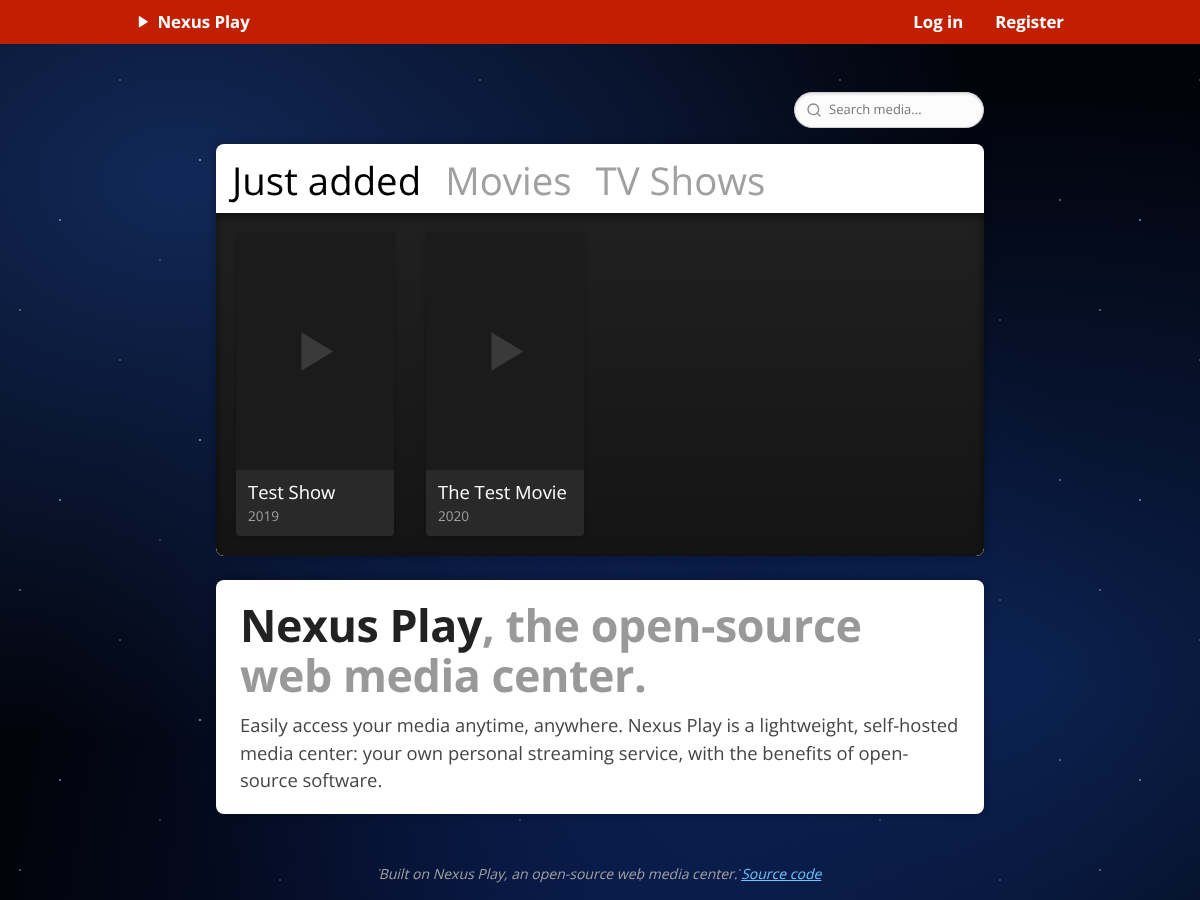
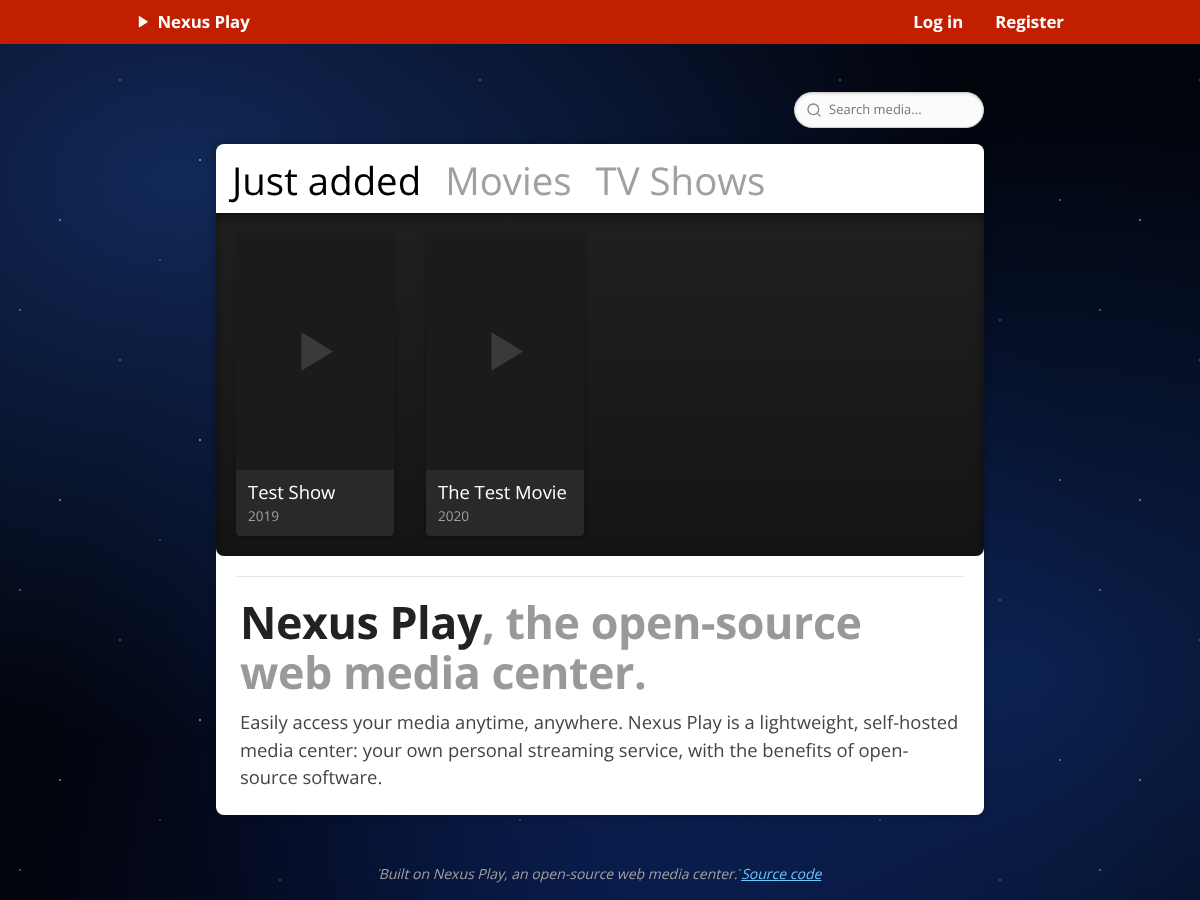
UI: the search drawer and the page under it form one container
With search results open there was a gap between the drawer and the page
under it. As in the original, the drawer now runs straight into the
(dimmed) page: no gap, and no rounded corners where they meet.

The home page's "Nexus Play, the open-source web media center" text is
back in the same white box as the library, under a thin rule, as in the
original, instead of in a separate panel.

Changed region(s): [[0.185, 0.6844, 0.8017, 0.8711], [0.1542, 0.5911, 0.8325, 0.6533]]

diff --git a/internal/web/static/css/app.css b/internal/web/static/css/app.css
@@ -196,9 +196,12 @@ button { font: inherit; }
   grid-template-rows: 0fr;
   transition: grid-template-rows .45s ease, margin-bottom .45s ease;
 }
-.search-drawer.open { grid-template-rows: 1fr; margin-bottom: 24px; }
+.search-drawer.open { grid-template-rows: 1fr; }
 .search-drawer-inner { min-height: 0; overflow: hidden; }
-.search-panel { box-shadow: 0 6px 24px rgba(0, 0, 0, .6); }
+/* While open, the drawer and the page under it read as one container, as
+   in the original: no gap, and no rounded corners where they meet. */
+.search-panel, .search-panel .tile-strip { border-bottom-left-radius: 0; border-bottom-right-radius: 0; }
+.search-drawer.open + .page-cover > :first-child { border-top-left-radius: 0; border-top-right-radius: 0; }
 .page-cover { transition: filter .25s ease; }
 .page-cover.dimmed { filter: brightness(.4); }
 
@@ -255,7 +258,8 @@ button { font: inherit; }
 .empty { padding: 32px 24px; }
 .empty h2 { margin-top: 0; }
 
-.featurette { padding: 20px 24px; }
+.featurette { margin: 0 20px; padding: 20px 4px 24px; border-top: 1px solid #e5e5e5; }
+#library + .featurette { margin-top: 20px; }
 .featurette h2 { font-size: clamp(1.8rem, 5vw, 2.8rem); line-height: 1.1; margin: 0 0 12px; letter-spacing: -.01em; }
 .featurette .muted { color: #999; font-weight: 700; }
 .lead { font-size: 1.15rem; margin: 0; color: #444; }

diff --git a/internal/web/library_templ.go b/internal/web/library_templ.go
@@ -48,7 +48,7 @@ func homePage(p Page, recent []store.Tile, cats []store.Category) templ.Componen
 				}()
 			}
 			ctx = templ.InitializeContext(ctx)
-			templ_7745c5c3_Err = templruntime.WriteString(templ_7745c5c3_Buffer, 1, "<section class=\"panel library-panel\" id=\"library\">")
+			templ_7745c5c3_Err = templruntime.WriteString(templ_7745c5c3_Buffer, 1, "<section class=\"panel library-panel\"><div id=\"library\">")
 			if templ_7745c5c3_Err != nil {
 				return templ_7745c5c3_Err
 			}
@@ -56,7 +56,7 @@ func homePage(p Page, recent []store.Tile, cats []store.Category) templ.Componen
 			if templ_7745c5c3_Err != nil {
 				return templ_7745c5c3_Err
 			}
-			templ_7745c5c3_Err = templruntime.WriteString(templ_7745c5c3_Buffer, 2, "</section><section class=\"panel featurette\"><h2><strong>Nexus Play</strong><span class=\"muted\">, the open-source web media center.</span></h2><p class=\"lead\">Easily access your media anytime, anywhere. Nexus Play is a lightweight, self-hosted media center: your own personal streaming service, with the benefits of open-source software.</p></section>")
+			templ_7745c5c3_Err = templruntime.WriteString(templ_7745c5c3_Buffer, 2, "</div><div class=\"featurette\"><h2><strong>Nexus Play</strong><span class=\"muted\">, the open-source web media center.</span></h2><p class=\"lead\">Easily access your media anytime, anywhere. Nexus Play is a lightweight, self-hosted media center: your own personal streaming service, with the benefits of open-source software.</p></div></section>")
 			if templ_7745c5c3_Err != nil {
 				return templ_7745c5c3_Err
 			}
@@ -124,7 +124,7 @@ func libraryView(p Page, recent []store.Tile, cats []store.Category) templ.Compo
 				var templ_7745c5c3_Var4 string
 				templ_7745c5c3_Var4, templ_7745c5c3_Err = templ.ResolveAttributeValue(fmt.Sprintf("tab-%d", i))
 				if templ_7745c5c3_Err != nil {
-					return templ.Error{Err: templ_7745c5c3_Err, FileName: `internal/web/library.templ`, Line: 40, Col: 107}
+					return templ.Error{Err: templ_7745c5c3_Err, FileName: `internal/web/library.templ`, Line: 42, Col: 107}
 				}
 				_, templ_7745c5c3_Err = templ_7745c5c3_Buffer.WriteString(templ_7745c5c3_Var4)
 				if templ_7745c5c3_Err != nil {
@@ -137,7 +137,7 @@ func libraryView(p Page, recent []store.Tile, cats []store.Category) templ.Compo
 				var templ_7745c5c3_Var5 string
 				templ_7745c5c3_Var5, templ_7745c5c3_Err = templ.JoinStringErrs(c.Name)
 				if templ_7745c5c3_Err != nil {
-					return templ.Error{Err: templ_7745c5c3_Err, FileName: `internal/web/library.templ`, Line: 40, Col: 118}
+					return templ.Error{Err: templ_7745c5c3_Err, FileName: `internal/web/library.templ`, Line: 42, Col: 118}
 				}
 				_, templ_7745c5c3_Err = templ_7745c5c3_Buffer.WriteString(templ.EscapeString(templ_7745c5c3_Var5))
 				if templ_7745c5c3_Err != nil {
@@ -168,7 +168,7 @@ func libraryView(p Page, recent []store.Tile, cats []store.Category) templ.Compo
 				var templ_7745c5c3_Var6 string
 				templ_7745c5c3_Var6, templ_7745c5c3_Err = templ.ResolveAttributeValue(fmt.Sprintf("tab-%d", i))
 				if templ_7745c5c3_Err != nil {
-					return templ.Error{Err: templ_7745c5c3_Err, FileName: `internal/web/library.templ`, Line: 48, Col: 57}
+					return templ.Error{Err: templ_7745c5c3_Err, FileName: `internal/web/library.templ`, Line: 50, Col: 57}
 				}
 				_, templ_7745c5c3_Err = templ_7745c5c3_Buffer.WriteString(templ_7745c5c3_Var6)
 				if templ_7745c5c3_Err != nil {
@@ -233,7 +233,7 @@ func searchResults(cats []store.Category) templ.Component {
 				var templ_7745c5c3_Var8 string
 				templ_7745c5c3_Var8, templ_7745c5c3_Err = templ.ResolveAttributeValue(strconv.FormatBool(i == 0))
 				if templ_7745c5c3_Err != nil {
-					return templ.Error{Err: templ_7745c5c3_Err, FileName: `internal/web/library.templ`, Line: 67, Col: 93}
+					return templ.Error{Err: templ_7745c5c3_Err, FileName: `internal/web/library.templ`, Line: 69, Col: 93}
 				}
 				_, templ_7745c5c3_Err = templ_7745c5c3_Buffer.WriteString(templ_7745c5c3_Var8)
 				if templ_7745c5c3_Err != nil {
@@ -246,7 +246,7 @@ func searchResults(cats []store.Category) templ.Component {
 				var templ_7745c5c3_Var9 string
 				templ_7745c5c3_Var9, templ_7745c5c3_Err = templ.ResolveAttributeValue(fmt.Sprintf("search-tab-%d", i))
 				if templ_7745c5c3_Err != nil {
-					return templ.Error{Err: templ_7745c5c3_Err, FileName: `internal/web/library.templ`, Line: 67, Col: 138}
+					return templ.Error{Err: templ_7745c5c3_Err, FileName: `internal/web/library.templ`, Line: 69, Col: 138}
 				}
 				_, templ_7745c5c3_Err = templ_7745c5c3_Buffer.WriteString(templ_7745c5c3_Var9)
 				if templ_7745c5c3_Err != nil {
@@ -259,7 +259,7 @@ func searchResults(cats []store.Category) templ.Component {
 				var templ_7745c5c3_Var10 string
 				templ_7745c5c3_Var10, templ_7745c5c3_Err = templ.JoinStringErrs(c.Name)
 				if templ_7745c5c3_Err != nil {
-					return templ.Error{Err: templ_7745c5c3_Err, FileName: `internal/web/library.templ`, Line: 67, Col: 149}
+					return templ.Error{Err: templ_7745c5c3_Err, FileName: `internal/web/library.templ`, Line: 69, Col: 149}
 				}
 				_, templ_7745c5c3_Err = templ_7745c5c3_Buffer.WriteString(templ.EscapeString(templ_7745c5c3_Var10))
 				if templ_7745c5c3_Err != nil {
@@ -282,7 +282,7 @@ func searchResults(cats []store.Category) templ.Component {
 				var templ_7745c5c3_Var11 string
 				templ_7745c5c3_Var11, templ_7745c5c3_Err = templ.ResolveAttributeValue(fmt.Sprintf("search-tab-%d", i))
 				if templ_7745c5c3_Err != nil {
-					return templ.Error{Err: templ_7745c5c3_Err, FileName: `internal/web/library.templ`, Line: 72, Col: 65}
+					return templ.Error{Err: templ_7745c5c3_Err, FileName: `internal/web/library.templ`, Line: 74, Col: 65}
 				}
 				_, templ_7745c5c3_Err = templ_7745c5c3_Buffer.WriteString(templ_7745c5c3_Var11)
 				if templ_7745c5c3_Err != nil {
@@ -358,7 +358,7 @@ func tileGrid(tiles []store.Tile) templ.Component {
 				var templ_7745c5c3_Var13 templ.SafeURL
 				templ_7745c5c3_Var13, templ_7745c5c3_Err = templ.JoinURLErrs(templ.SafeURL(collectionURL(t.ID)))
 				if templ_7745c5c3_Err != nil {
-					return templ.Error{Err: templ_7745c5c3_Err, FileName: `internal/web/library.templ`, Line: 87, Col: 62}
+					return templ.Error{Err: templ_7745c5c3_Err, FileName: `internal/web/library.templ`, Line: 89, Col: 62}
 				}
 				_, templ_7745c5c3_Err = templ_7745c5c3_Buffer.WriteString(templ.EscapeString(templ_7745c5c3_Var13))
 				if templ_7745c5c3_Err != nil {
@@ -371,7 +371,7 @@ func tileGrid(tiles []store.Tile) templ.Component {
 				var templ_7745c5c3_Var14 string
 				templ_7745c5c3_Var14, templ_7745c5c3_Err = templ.ResolveAttributeValue(collectionURL(t.ID))
 				if templ_7745c5c3_Err != nil {
-					return templ.Error{Err: templ_7745c5c3_Err, FileName: `internal/web/library.templ`, Line: 87, Col: 93}
+					return templ.Error{Err: templ_7745c5c3_Err, FileName: `internal/web/library.templ`, Line: 89, Col: 93}
 				}
 				_, templ_7745c5c3_Err = templ_7745c5c3_Buffer.WriteString(templ_7745c5c3_Var14)
 				if templ_7745c5c3_Err != nil {
@@ -397,7 +397,7 @@ func tileGrid(tiles []store.Tile) templ.Component {
 				var templ_7745c5c3_Var15 templ.SafeURL
 				templ_7745c5c3_Var15, templ_7745c5c3_Err = templ.JoinURLErrs(watchURL(t.ID))
 				if templ_7745c5c3_Err != nil {
-					return templ.Error{Err: templ_7745c5c3_Err, FileName: `internal/web/library.templ`, Line: 91, Col: 42}
+					return templ.Error{Err: templ_7745c5c3_Err, FileName: `internal/web/library.templ`, Line: 93, Col: 42}
 				}
 				_, templ_7745c5c3_Err = templ_7745c5c3_Buffer.WriteString(templ.EscapeString(templ_7745c5c3_Var15))
 				if templ_7745c5c3_Err != nil {
@@ -457,7 +457,7 @@ func tileBody(t store.Tile) templ.Component {
 		var templ_7745c5c3_Var17 string
 		templ_7745c5c3_Var17, templ_7745c5c3_Err = templ.ResolveAttributeValue(posterURL(t.Poster))
 		if templ_7745c5c3_Err != nil {
-			return templ.Error{Err: templ_7745c5c3_Err, FileName: `internal/web/library.templ`, Line: 101, Col: 31}
+			return templ.Error{Err: templ_7745c5c3_Err, FileName: `internal/web/library.templ`, Line: 103, Col: 31}
 		}
 		_, templ_7745c5c3_Err = templ_7745c5c3_Buffer.WriteString(templ_7745c5c3_Var17)
 		if templ_7745c5c3_Err != nil {
@@ -470,7 +470,7 @@ func tileBody(t store.Tile) templ.Component {
 		var templ_7745c5c3_Var18 string
 		templ_7745c5c3_Var18, templ_7745c5c3_Err = templ.ResolveAttributeValue(t.Title)
 		if templ_7745c5c3_Err != nil {
-			return templ.Error{Err: templ_7745c5c3_Err, FileName: `internal/web/library.templ`, Line: 102, Col: 41}
+			return templ.Error{Err: templ_7745c5c3_Err, FileName: `internal/web/library.templ`, Line: 104, Col: 41}
 		}
 		_, templ_7745c5c3_Err = templ_7745c5c3_Buffer.WriteString(templ_7745c5c3_Var18)
 		if templ_7745c5c3_Err != nil {
@@ -483,7 +483,7 @@ func tileBody(t store.Tile) templ.Component {
 		var templ_7745c5c3_Var19 string
 		templ_7745c5c3_Var19, templ_7745c5c3_Err = templ.JoinStringErrs(t.Title)
 		if templ_7745c5c3_Err != nil {
-			return templ.Error{Err: templ_7745c5c3_Err, FileName: `internal/web/library.templ`, Line: 102, Col: 53}
+			return templ.Error{Err: templ_7745c5c3_Err, FileName: `internal/web/library.templ`, Line: 104, Col: 53}
 		}
 		_, templ_7745c5c3_Err = templ_7745c5c3_Buffer.WriteString(templ.EscapeString(templ_7745c5c3_Var19))
 		if templ_7745c5c3_Err != nil {
@@ -510,7 +510,7 @@ func tileBody(t store.Tile) templ.Component {
 		var templ_7745c5c3_Var20 string
 		templ_7745c5c3_Var20, templ_7745c5c3_Err = templ.JoinStringErrs(t.Year)
 		if templ_7745c5c3_Err != nil {
-			return templ.Error{Err: templ_7745c5c3_Err, FileName: `internal/web/library.templ`, Line: 109, Col: 10}
+			return templ.Error{Err: templ_7745c5c3_Err, FileName: `internal/web/library.templ`, Line: 111, Col: 10}
 		}
 		_, templ_7745c5c3_Err = templ_7745c5c3_Buffer.WriteString(templ.EscapeString(templ_7745c5c3_Var20))
 		if templ_7745c5c3_Err != nil {
@@ -552,7 +552,7 @@ func collectionDialog(v Viewer, c store.Collection, seasons []Season, subscribed
 		var templ_7745c5c3_Var22 string
 		templ_7745c5c3_Var22, templ_7745c5c3_Err = templ.ResolveAttributeValue(posterURL(c.Poster))
 		if templ_7745c5c3_Err != nil {
-			return templ.Error{Err: templ_7745c5c3_Err, FileName: `internal/web/library.templ`, Line: 117, Col: 34}
+			return templ.Error{Err: templ_7745c5c3_Err, FileName: `internal/web/library.templ`, Line: 119, Col: 34}
 		}
 		_, templ_7745c5c3_Err = templ_7745c5c3_Buffer.WriteString(templ_7745c5c3_Var22)
 		if templ_7745c5c3_Err != nil {
@@ -575,7 +575,7 @@ func collectionDialog(v Viewer, c store.Collection, seasons []Season, subscribed
 		var templ_7745c5c3_Var23 string
 		templ_7745c5c3_Var23, templ_7745c5c3_Err = templ.JoinStringErrs(c.Name)
 		if templ_7745c5c3_Err != nil {
-			return templ.Error{Err: templ_7745c5c3_Err, FileName: `internal/web/library.templ`, Line: 123, Col: 33}
+			return templ.Error{Err: templ_7745c5c3_Err, FileName: `internal/web/library.templ`, Line: 125, Col: 33}
 		}
 		_, templ_7745c5c3_Err = templ_7745c5c3_Buffer.WriteString(templ.EscapeString(templ_7745c5c3_Var23))
 		if templ_7745c5c3_Err != nil {
@@ -588,7 +588,7 @@ func collectionDialog(v Viewer, c store.Collection, seasons []Season, subscribed
 		var templ_7745c5c3_Var24 string
 		templ_7745c5c3_Var24, templ_7745c5c3_Err = templ.JoinStringErrs(seasonSummary(c, seasons))
 		if templ_7745c5c3_Err != nil {
-			return templ.Error{Err: templ_7745c5c3_Err, FileName: `internal/web/library.templ`, Line: 124, Col: 57}
+			return templ.Error{Err: templ_7745c5c3_Err, FileName: `internal/web/library.templ`, Line: 126, Col: 57}
 		}
 		_, templ_7745c5c3_Err = templ_7745c5c3_Buffer.WriteString(templ.EscapeString(templ_7745c5c3_Var24))
 		if templ_7745c5c3_Err != nil {
@@ -611,7 +611,7 @@ func collectionDialog(v Viewer, c store.Collection, seasons []Season, subscribed
 				var templ_7745c5c3_Var25 string
 				templ_7745c5c3_Var25, templ_7745c5c3_Err = templ.ResolveAttributeValue(strconv.FormatBool(i == 0))
 				if templ_7745c5c3_Err != nil {
-					return templ.Error{Err: templ_7745c5c3_Err, FileName: `internal/web/library.templ`, Line: 132, Col: 50}
+					return templ.Error{Err: templ_7745c5c3_Err, FileName: `internal/web/library.templ`, Line: 134, Col: 50}
 				}
 				_, templ_7745c5c3_Err = templ_7745c5c3_Buffer.WriteString(templ_7745c5c3_Var25)
 				if templ_7745c5c3_Err != nil {
@@ -624,7 +624,7 @@ func collectionDialog(v Viewer, c store.Collection, seasons []Season, subscribed
 				var templ_7745c5c3_Var26 string
 				templ_7745c5c3_Var26, templ_7745c5c3_Err = templ.ResolveAttributeValue(fmt.Sprintf("season-%d-%d", c.ID, s.Number))
 				if templ_7745c5c3_Err != nil {
-					return templ.Error{Err: templ_7745c5c3_Err, FileName: `internal/web/library.templ`, Line: 133, Col: 62}
+					return templ.Error{Err: templ_7745c5c3_Err, FileName: `internal/web/library.templ`, Line: 135, Col: 62}
 				}
 				_, templ_7745c5c3_Err = templ_7745c5c3_Buffer.WriteString(templ_7745c5c3_Var26)
 				if templ_7745c5c3_Err != nil {
@@ -637,7 +637,7 @@ func collectionDialog(v Viewer, c store.Collection, seasons []Season, subscribed
 				var templ_7745c5c3_Var27 string
 				templ_7745c5c3_Var27, templ_7745c5c3_Err = templ.JoinStringErrs(seasonLabel(s.Number))
 				if templ_7745c5c3_Err != nil {
-					return templ.Error{Err: templ_7745c5c3_Err, FileName: `internal/web/library.templ`, Line: 134, Col: 31}
+					return templ.Error{Err: templ_7745c5c3_Err, FileName: `internal/web/library.templ`, Line: 136, Col: 31}
 				}
 				_, templ_7745c5c3_Err = templ_7745c5c3_Buffer.WriteString(templ.EscapeString(templ_7745c5c3_Var27))
 				if templ_7745c5c3_Err != nil {
@@ -665,7 +665,7 @@ func collectionDialog(v Viewer, c store.Collection, seasons []Season, subscribed
 			var templ_7745c5c3_Var28 string
 			templ_7745c5c3_Var28, templ_7745c5c3_Err = templ.JoinStringErrs(c.Overview)
 			if templ_7745c5c3_Err != nil {
-				return templ.Error{Err: templ_7745c5c3_Err, FileName: `internal/web/library.templ`, Line: 142, Col: 36}
+				return templ.Error{Err: templ_7745c5c3_Err, FileName: `internal/web/library.templ`, Line: 144, Col: 36}
 			}
 			_, templ_7745c5c3_Err = templ_7745c5c3_Buffer.WriteString(templ.EscapeString(templ_7745c5c3_Var28))
 			if templ_7745c5c3_Err != nil {
@@ -684,7 +684,7 @@ func collectionDialog(v Viewer, c store.Collection, seasons []Season, subscribed
 			var templ_7745c5c3_Var29 string
 			templ_7745c5c3_Var29, templ_7745c5c3_Err = templ.ResolveAttributeValue(fmt.Sprintf("season-%d-%d", c.ID, s.Number))
 			if templ_7745c5c3_Err != nil {
-				return templ.Error{Err: templ_7745c5c3_Err, FileName: `internal/web/library.templ`, Line: 145, Col: 75}
+				return templ.Error{Err: templ_7745c5c3_Err, FileName: `internal/web/library.templ`, Line: 147, Col: 75}
 			}
 			_, templ_7745c5c3_Err = templ_7745c5c3_Buffer.WriteString(templ_7745c5c3_Var29)
 			if templ_7745c5c3_Err != nil {
@@ -712,7 +712,7 @@ func collectionDialog(v Viewer, c store.Collection, seasons []Season, subscribed
 				var templ_7745c5c3_Var30 string
 				templ_7745c5c3_Var30, templ_7745c5c3_Err = templ.JoinStringErrs(strconv.Itoa(e.Episode))
 				if templ_7745c5c3_Err != nil {
-					return templ.Error{Err: templ_7745c5c3_Err, FileName: `internal/web/library.templ`, Line: 153, Col: 38}
+					return templ.Error{Err: templ_7745c5c3_Err, FileName: `internal/web/library.templ`, Line: 155, Col: 38}
 				}
 				_, templ_7745c5c3_Err = templ_7745c5c3_Buffer.WriteString(templ.EscapeString(templ_7745c5c3_Var30))
 				if templ_7745c5c3_Err != nil {
@@ -725,7 +725,7 @@ func collectionDialog(v Viewer, c store.Collection, seasons []Season, subscribed
 				var templ_7745c5c3_Var31 templ.SafeURL
 				templ_7745c5c3_Var31, templ_7745c5c3_Err = templ.JoinURLErrs(watchURL(e.ID))
 				if templ_7745c5c3_Err != nil {
-					return templ.Error{Err: templ_7745c5c3_Err, FileName: `internal/web/library.templ`, Line: 155, Col: 34}
+					return templ.Error{Err: templ_7745c5c3_Err, FileName: `internal/web/library.templ`, Line: 157, Col: 34}
 				}
 				_, templ_7745c5c3_Err = templ_7745c5c3_Buffer.WriteString(templ.EscapeString(templ_7745c5c3_Var31))
 				if templ_7745c5c3_Err != nil {
@@ -738,7 +738,7 @@ func collectionDialog(v Viewer, c store.Collection, seasons []Season, subscribed
 				var templ_7745c5c3_Var32 string
 				templ_7745c5c3_Var32, templ_7745c5c3_Err = templ.JoinStringErrs(e.Title)
 				if templ_7745c5c3_Err != nil {
-					return templ.Error{Err: templ_7745c5c3_Err, FileName: `internal/web/library.templ`, Line: 155, Col: 46}
+					return templ.Error{Err: templ_7745c5c3_Err, FileName: `internal/web/library.templ`, Line: 157, Col: 46}
 				}
 				_, templ_7745c5c3_Err = templ_7745c5c3_Buffer.WriteString(templ.EscapeString(templ_7745c5c3_Var32))
 				if templ_7745c5c3_Err != nil {
@@ -829,7 +829,7 @@ func subscribeRibbon(collectionID int64, subscribed bool) templ.Component {
 		var templ_7745c5c3_Var36 string
 		templ_7745c5c3_Var36, templ_7745c5c3_Err = templ.ResolveAttributeValue(collectionURL(collectionID) + "/subscribe")
 		if templ_7745c5c3_Err != nil {
-			return templ.Error{Err: templ_7745c5c3_Err, FileName: `internal/web/library.templ`, Line: 179, Col: 54}
+			return templ.Error{Err: templ_7745c5c3_Err, FileName: `internal/web/library.templ`, Line: 181, Col: 54}
 		}
 		_, templ_7745c5c3_Err = templ_7745c5c3_Buffer.WriteString(templ_7745c5c3_Var36)
 		if templ_7745c5c3_Err != nil {
@@ -842,7 +842,7 @@ func subscribeRibbon(collectionID int64, subscribed bool) templ.Component {
 		var templ_7745c5c3_Var37 string
 		templ_7745c5c3_Var37, templ_7745c5c3_Err = templ.ResolveAttributeValue(strconv.FormatBool(subscribed))
 		if templ_7745c5c3_Err != nil {
-			return templ.Error{Err: templ_7745c5c3_Err, FileName: `internal/web/library.templ`, Line: 181, Col: 47}
+			return templ.Error{Err: templ_7745c5c3_Err, FileName: `internal/web/library.templ`, Line: 183, Col: 47}
 		}
 		_, templ_7745c5c3_Err = templ_7745c5c3_Buffer.WriteString(templ_7745c5c3_Var37)
 		if templ_7745c5c3_Err != nil {
@@ -937,7 +937,7 @@ func resumeList(items []store.Resume) templ.Component {
 				var templ_7745c5c3_Var39 templ.SafeURL
 				templ_7745c5c3_Var39, templ_7745c5c3_Err = templ.JoinURLErrs(watchURL(r.Media.ID))
 				if templ_7745c5c3_Err != nil {
-					return templ.Error{Err: templ_7745c5c3_Err, FileName: `internal/web/library.templ`, Line: 209, Col: 35}
+					return templ.Error{Err: templ_7745c5c3_Err, FileName: `internal/web/library.templ`, Line: 211, Col: 35}
 				}
 				_, templ_7745c5c3_Err = templ_7745c5c3_Buffer.WriteString(templ.EscapeString(templ_7745c5c3_Var39))
 				if templ_7745c5c3_Err != nil {
@@ -950,7 +950,7 @@ func resumeList(items []store.Resume) templ.Component {
 				var templ_7745c5c3_Var40 string
 				templ_7745c5c3_Var40, templ_7745c5c3_Err = templ.ResolveAttributeValue(posterURL(r.Media.Poster))
 				if templ_7745c5c3_Err != nil {
-					return templ.Error{Err: templ_7745c5c3_Err, FileName: `internal/web/library.templ`, Line: 210, Col: 42}
+					return templ.Error{Err: templ_7745c5c3_Err, FileName: `internal/web/library.templ`, Line: 212, Col: 42}
 				}
 				_, templ_7745c5c3_Err = templ_7745c5c3_Buffer.WriteString(templ_7745c5c3_Var40)
 				if templ_7745c5c3_Err != nil {
@@ -963,7 +963,7 @@ func resumeList(items []store.Resume) templ.Component {
 				var templ_7745c5c3_Var41 string
 				templ_7745c5c3_Var41, templ_7745c5c3_Err = templ.JoinStringErrs(displayTitle(r.Media))
 				if templ_7745c5c3_Err != nil {
-					return templ.Error{Err: templ_7745c5c3_Err, FileName: `internal/web/library.templ`, Line: 212, Col: 30}
+					return templ.Error{Err: templ_7745c5c3_Err, FileName: `internal/web/library.templ`, Line: 214, Col: 30}
 				}
 				_, templ_7745c5c3_Err = templ_7745c5c3_Buffer.WriteString(templ.EscapeString(templ_7745c5c3_Var41))
 				if templ_7745c5c3_Err != nil {
@@ -984,7 +984,7 @@ func resumeList(items []store.Resume) templ.Component {
 				var templ_7745c5c3_Var42 string
 				templ_7745c5c3_Var42, templ_7745c5c3_Err = templ.JoinStringErrs(minutes(r.Position))
 				if templ_7745c5c3_Err != nil {
-					return templ.Error{Err: templ_7745c5c3_Err, FileName: `internal/web/library.templ`, Line: 215, Col: 29}
+					return templ.Error{Err: templ_7745c5c3_Err, FileName: `internal/web/library.templ`, Line: 217, Col: 29}
 				}
 				_, templ_7745c5c3_Err = templ_7745c5c3_Buffer.WriteString(templ.EscapeString(templ_7745c5c3_Var42))
 				if templ_7745c5c3_Err != nil {
@@ -1043,7 +1043,7 @@ func notificationList(items []store.Media) templ.Component {
 				var templ_7745c5c3_Var44 templ.SafeURL
 				templ_7745c5c3_Var44, templ_7745c5c3_Err = templ.JoinURLErrs(watchURL(m.ID))
 				if templ_7745c5c3_Err != nil {
-					return templ.Error{Err: templ_7745c5c3_Err, FileName: `internal/web/library.templ`, Line: 232, Col: 29}
+					return templ.Error{Err: templ_7745c5c3_Err, FileName: `internal/web/library.templ`, Line: 234, Col: 29}
 				}
 				_, templ_7745c5c3_Err = templ_7745c5c3_Buffer.WriteString(templ.EscapeString(templ_7745c5c3_Var44))
 				if templ_7745c5c3_Err != nil {
@@ -1056,7 +1056,7 @@ func notificationList(items []store.Media) templ.Component {
 				var templ_7745c5c3_Var45 string
 				templ_7745c5c3_Var45, templ_7745c5c3_Err = templ.ResolveAttributeValue(posterURL(m.Poster))
 				if templ_7745c5c3_Err != nil {
-					return templ.Error{Err: templ_7745c5c3_Err, FileName: `internal/web/library.templ`, Line: 233, Col: 36}
+					return templ.Error{Err: templ_7745c5c3_Err, FileName: `internal/web/library.templ`, Line: 235, Col: 36}
 				}
 				_, templ_7745c5c3_Err = templ_7745c5c3_Buffer.WriteString(templ_7745c5c3_Var45)
 				if templ_7745c5c3_Err != nil {
@@ -1069,7 +1069,7 @@ func notificationList(items []store.Media) templ.Component {
 				var templ_7745c5c3_Var46 string
 				templ_7745c5c3_Var46, templ_7745c5c3_Err = templ.JoinStringErrs(displayTitle(m))
 				if templ_7745c5c3_Err != nil {
-					return templ.Error{Err: templ_7745c5c3_Err, FileName: `internal/web/library.templ`, Line: 234, Col: 29}
+					return templ.Error{Err: templ_7745c5c3_Err, FileName: `internal/web/library.templ`, Line: 236, Col: 29}
 				}
 				_, templ_7745c5c3_Err = templ_7745c5c3_Buffer.WriteString(templ.EscapeString(templ_7745c5c3_Var46))
 				if templ_7745c5c3_Err != nil {
